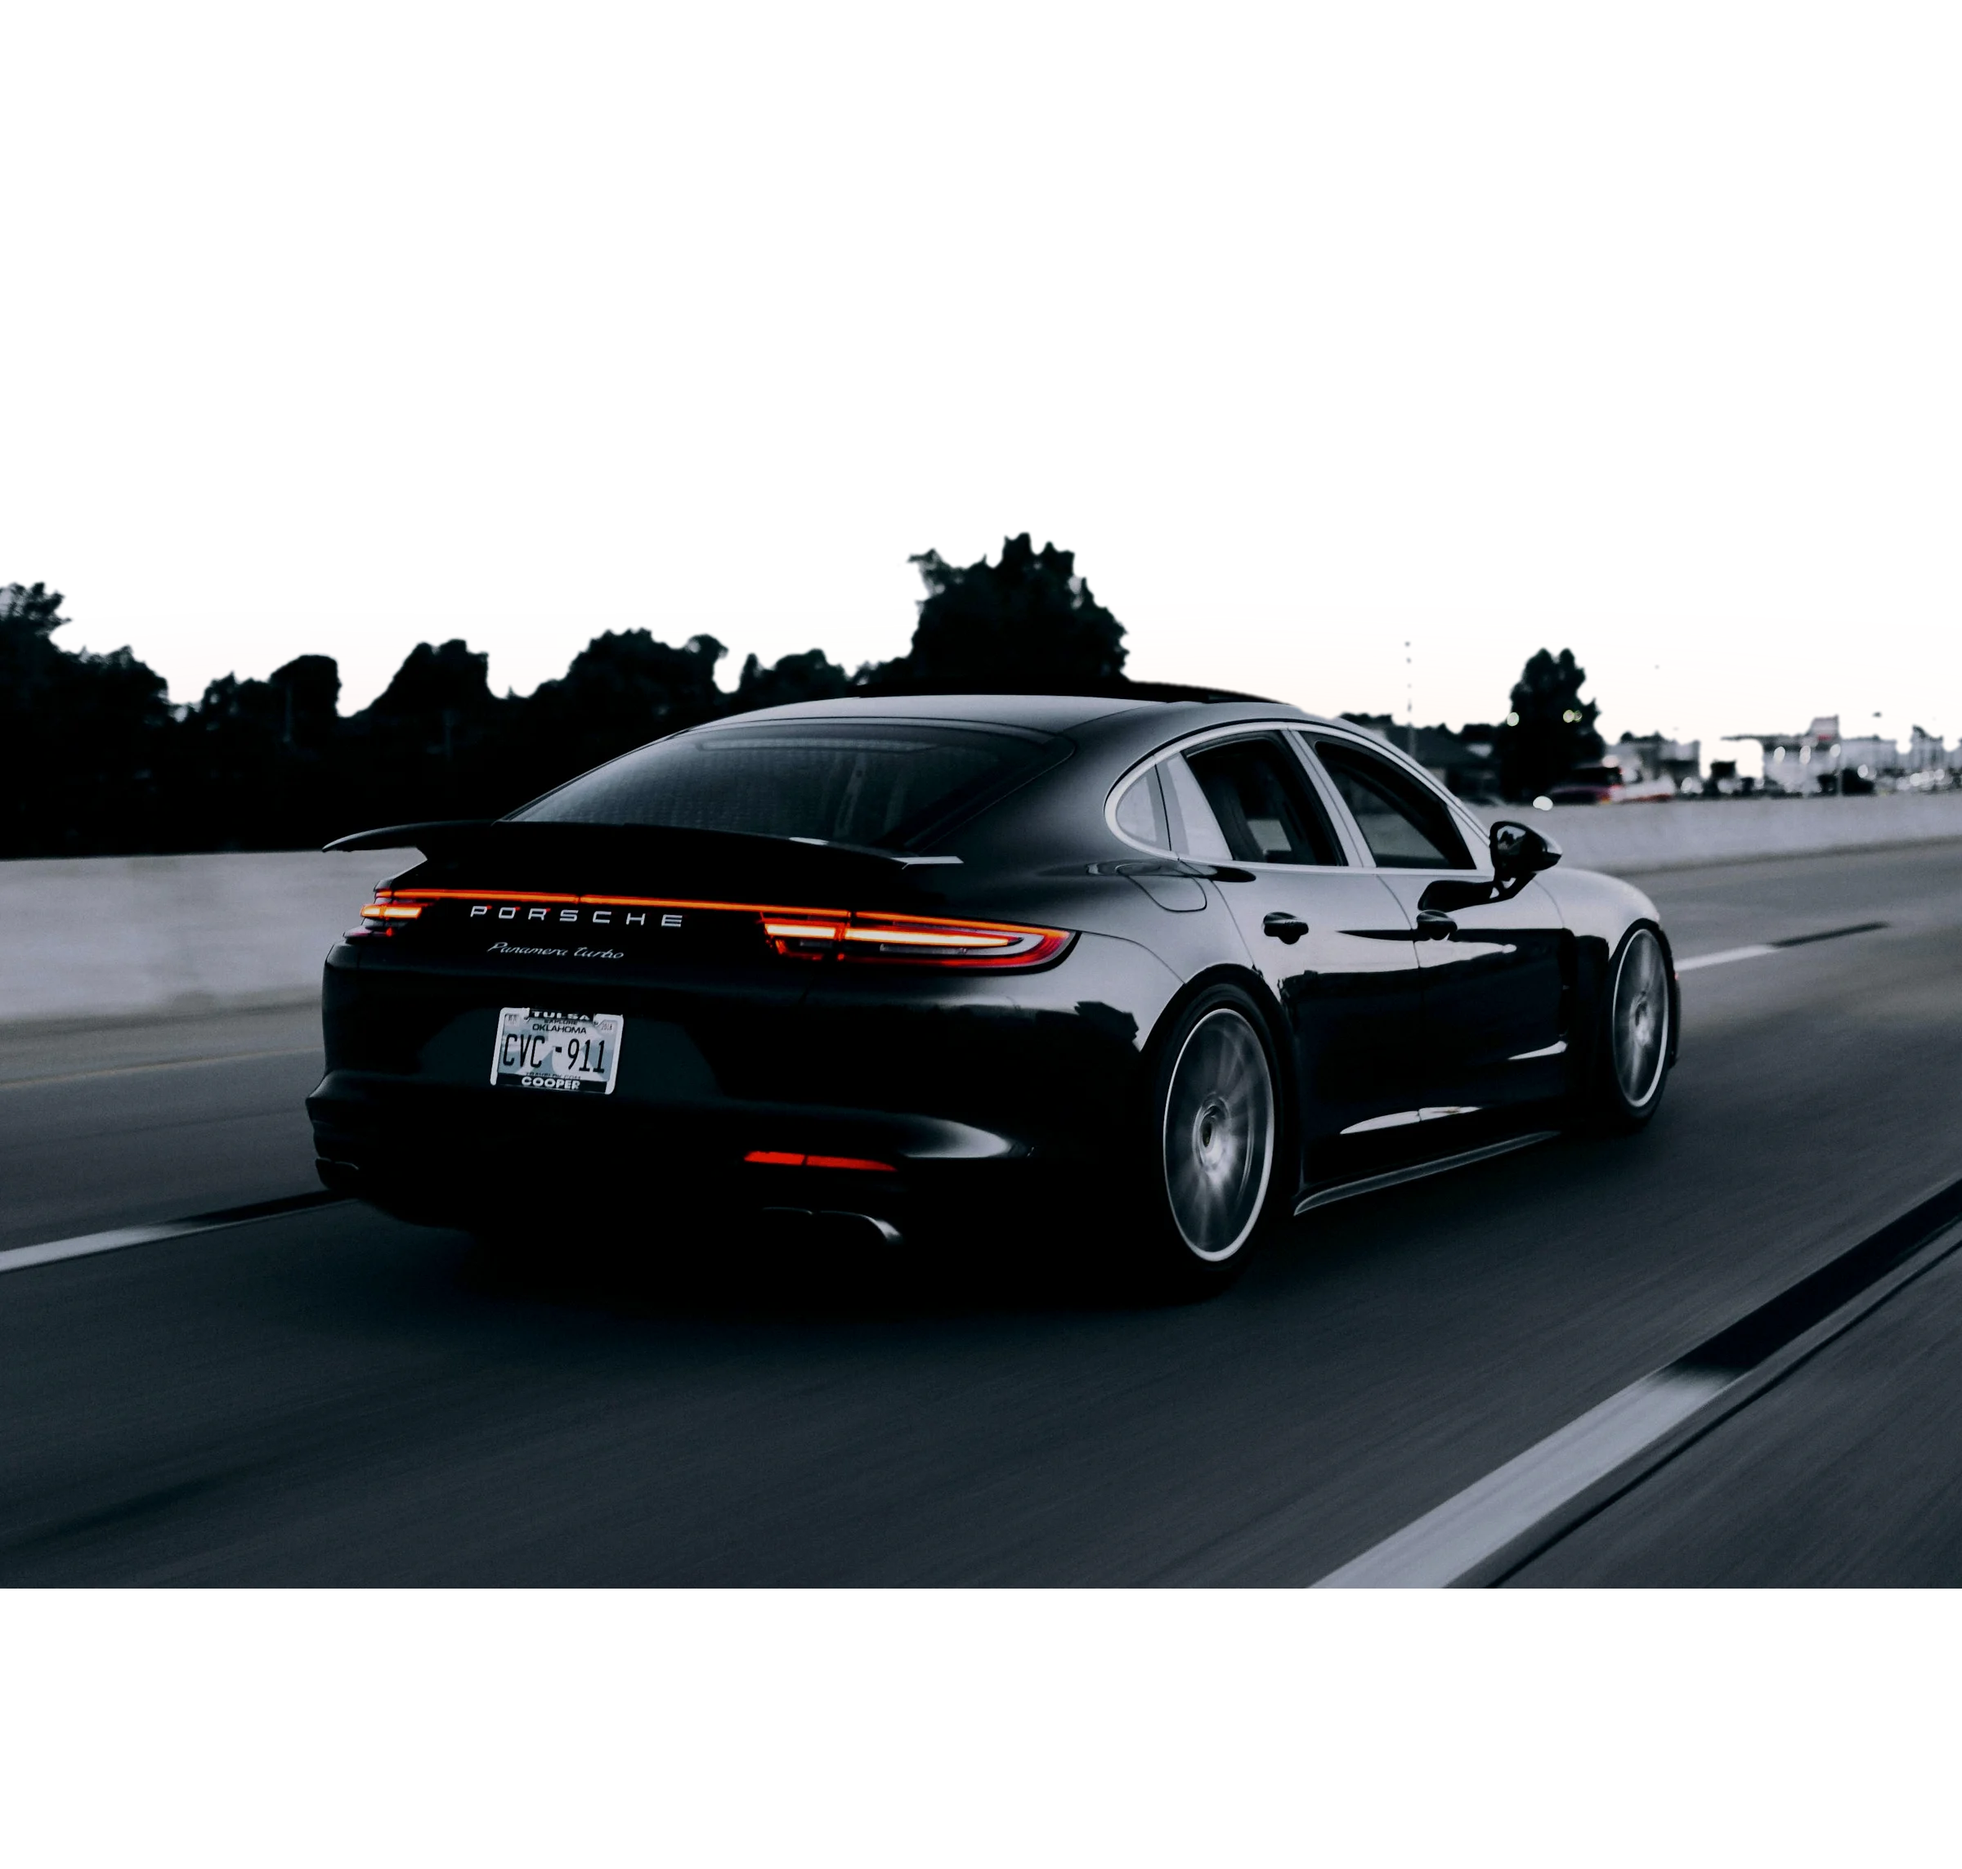
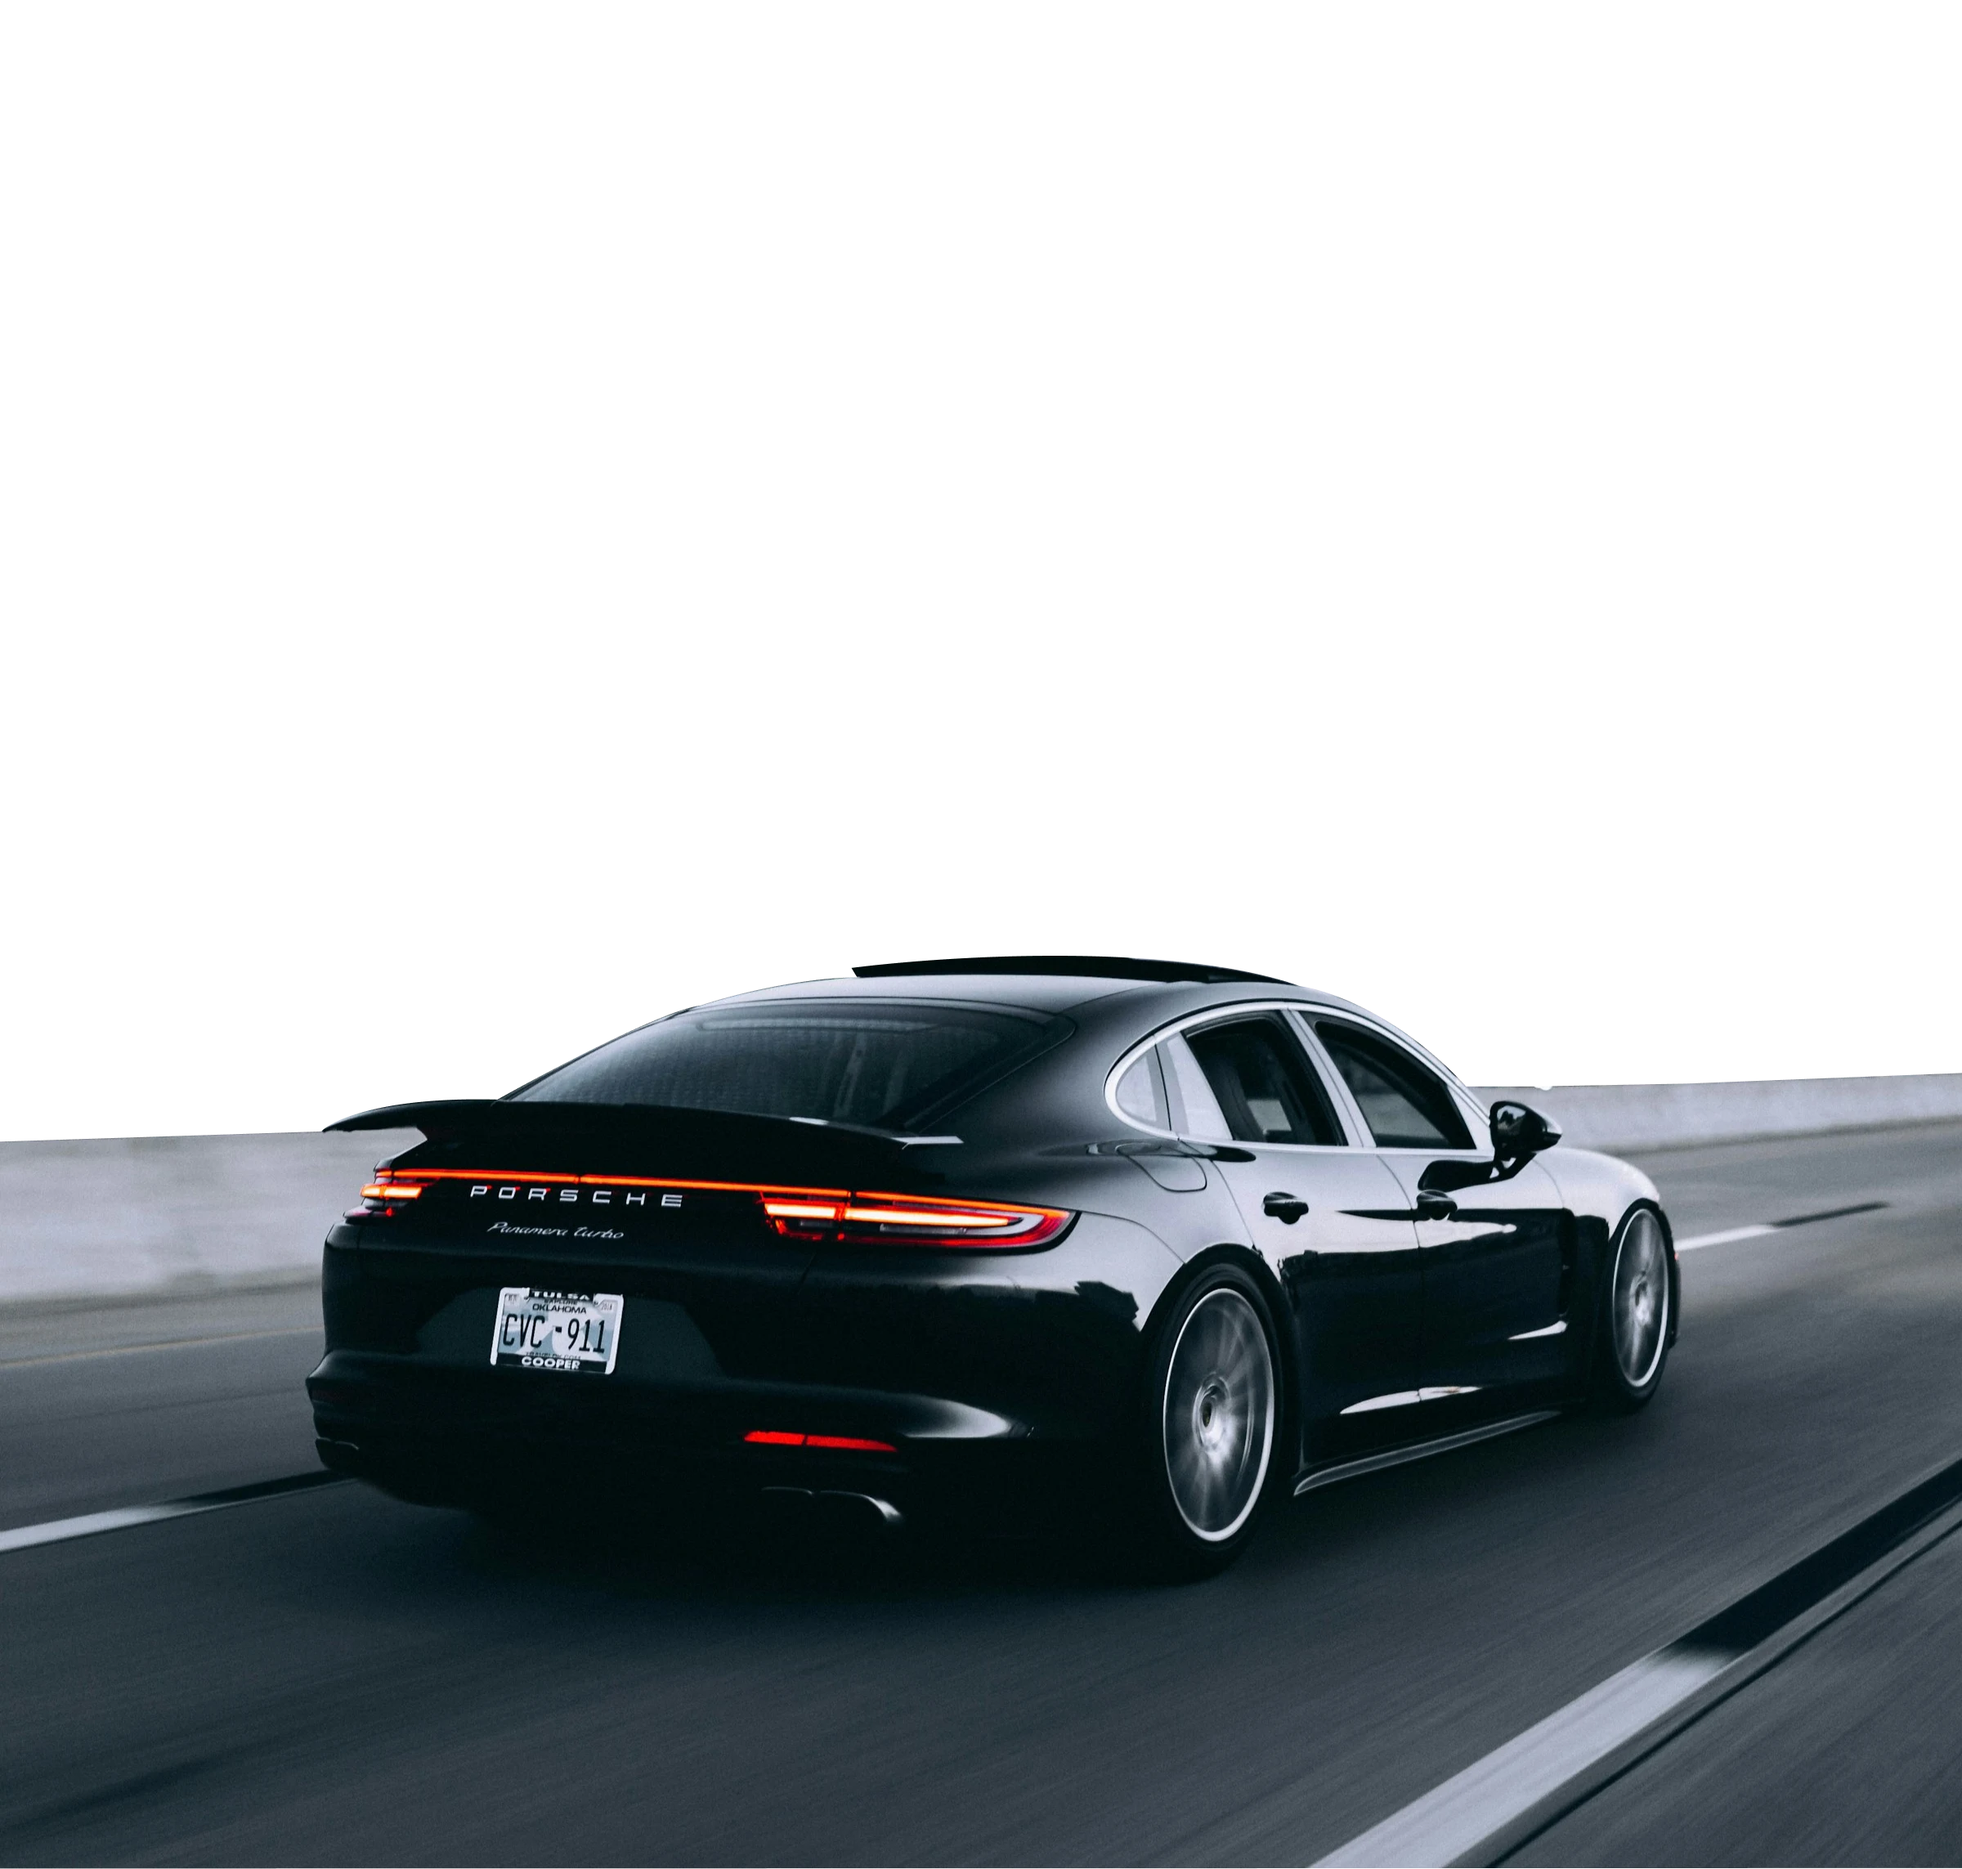
Главный экран: горы фоном, вырезанный автомобиль передним планом
Слои заменены на присланные заказчиком: Mountain.png и car.png. Второй уже
разрезан по линии отбойника, поэтому сегментация не нужна — добавлен скрипт
compose-hero-planes.mjs, собирающий плиты из готовых слоёв.

Обе плиты доводятся до общей пропорции 1.05: фон — продолжением неба вверх,
автомобиль — прозрачностью. Иначе широкий кадр в высоком контейнере слоя
обрезается с боков.

Небу добавлен градиентный фильтр. В кадре есть луна и светлые облака, и в
худшей точке фон под белым заголовком доходил до яркости 233 — контраст
1.2:1. Локальное пятно под текстом эту задачу решало, но читалось грязным
овалом на небе. Ровный вертикальный градиент выглядит естественно и заодно
поднимает гору по контрасту.

Замерено в браузере (худшая, самая светлая точка под текстом):
  десктоп   заголовок 4.8:1, подпись 4.7:1, шапка 17.4:1
  мобильный заголовок 6.0:1, подпись 5.3:1

diff --git a/src/app/globals.css b/src/app/globals.css
@@ -295,6 +295,9 @@
   /* reference: 11vw. Ограничение по высоте экрана — на невысоком ноутбуке
      чистого неба над горизонтом меньше. */
   font-size: clamp(2.25rem, min(11vw, 22svh), 12rem);
+  /* Страховка поверх градиентного фильтра: тень не создаёт видимой формы,
+     но добавляет запас там, где под букву попало светлое облако. */
+  text-shadow: 0 0.06em 0.5em rgb(14 17 20 / 0.55);
 }
 
 /* Подпись под заголовком */
@@ -305,12 +308,14 @@
   font-size: clamp(0.8125rem, 1.35vw, 1.125rem);
   letter-spacing: 0.16em;
   text-transform: uppercase;
+  text-shadow: 0 0.08em 0.6em rgb(14 17 20 / 0.7);
   line-height: 1.4;
 }
 
 .parallax__title-block {
   position: relative;
 }
+
 
 /* Растворение низа сцены в фон следующей секции.
    Многоступенчатый градиент взят из reference: линейный на такой площади

diff --git a/README.md b/README.md
@@ -392,7 +392,27 @@ docs/PLAN.md               проектные решения
 ### Слои главного экрана
 
 В reference одна фотография горы разложена на планы — небо, гора, передний
-гребень. Здесь то же самое сделано для автомобильного кадра:
+гребень. Здесь то же самое, но планов два: фон и автомобиль.
+
+**Если слои уже разрезаны** (фон отдельно, автомобиль с прозрачностью) —
+это основной путь:
+
+```bash
+node scripts/compose-hero-planes.mjs assets/hero-bg.png assets/hero-car.png
+```
+
+Скрипт доводит обе плиты до общей почти квадратной пропорции, продолжает небо
+вверх, накладывает на него градиентное затемнение (иначе белый заголовок не
+читается на луне и светлых облаках) и собирает картинку для соцсетей.
+Раскладку по вертикали задают две константы в начале файла: `BG_TOP` — где
+начинается кадр с фоном, и `SKY_ND_TOP` / `SKY_ND_END` — сила фильтра.
+
+Автомобиль всегда во всю ширину плиты и прижат к низу. Уменьшать его нельзя:
+по бокам остаются прозрачные поля, и полоса дороги обрывается прямыми
+вертикальными срезами посреди фона.
+
+**Если есть только одна фотография** и резать её некому — второй скрипт
+вырезает небо сам:
 
 ```bash
 node scripts/build-hero-planes.mjs assets/hero-source.jpg
